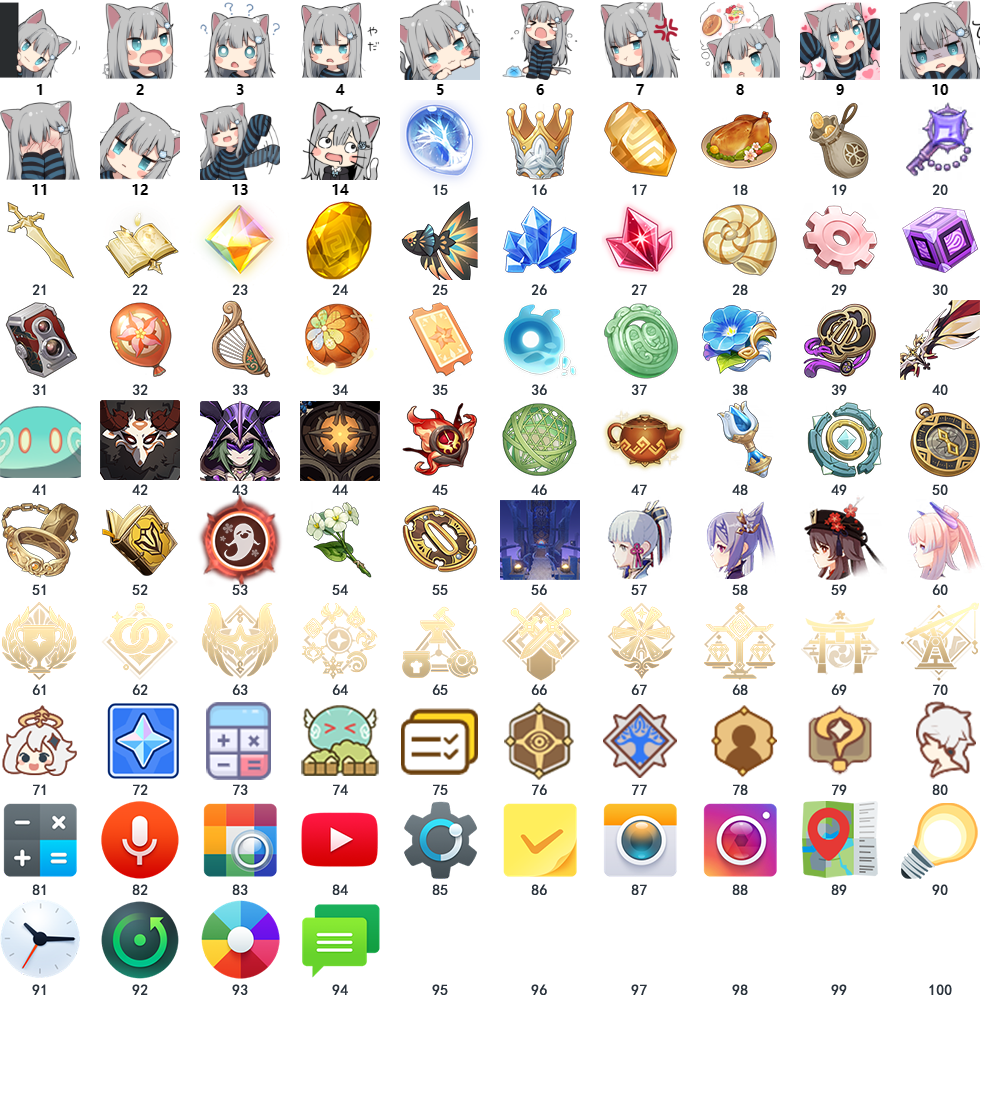
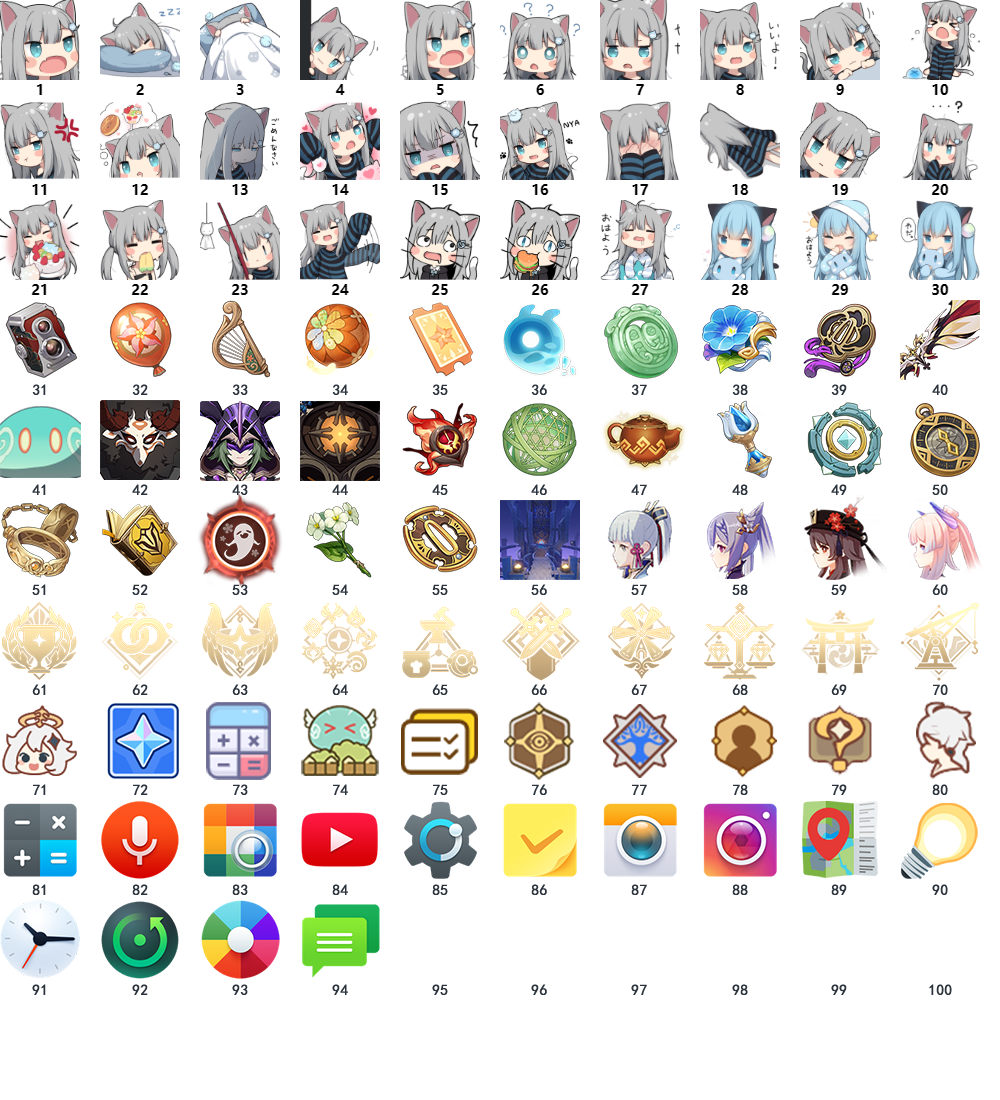
修复bug

Changed region(s): [[0.0, 0.0, 0.992, 0.2782]]

diff --git a/config/system/help_system.js b/config/system/help_system.js
@@ -67,7 +67,7 @@ export const helpList = [
       {
         "icon": 9,
         "title": "定时发图",
-        "desc": "#定时发图"
+        "desc": "#发图,可定时推送"
       },
       {
         "icon": 10,
@@ -82,7 +82,12 @@ export const helpList = [
       {
         "icon": 12,
         "title": "城市天气",
-        "desc": "#天气 + 城市"
+        "desc": "#天气 + 城市, 可定时推送"
+      },
+      {
+        "icon": 13,
+        "title": "今日番剧",
+        "desc": "#今日番剧，可定时推送"
       }
     ]
   },
@@ -90,14 +95,19 @@ export const helpList = [
     "group": "小修系列",
     "list": [
       {
-        "icon": 13,
+        "icon": 14,
         "title": "进退群通知",
         "desc": "进群诙谐欢迎"
       },
       {
-        "icon": 14,
+        "icon": 15,
         "title": "问候回复",
         "desc": "发送“早上好”试试吧"
+      },
+      {
+        "icon": 16,
+        "title": "自定义图片api",
+        "desc": "自定义指令"
       }
     ]
   }

diff --git a/apps/CustomApi.js b/apps/CustomApi.js
@@ -3,8 +3,6 @@ import {  getImageUrl, readAndParseYAML } from '../utils/getdate.js';
 // 假设apiList现在是一个对象
 const apiList = await readAndParseYAML('../config/api.yaml');
 
-console.log(apiList);  // 打印apiList以查看其内容
-
 // 将apiList转换为apiMap，键是指令，值是imageUrls
 const apiMap = {};
 for (let item of apiList.setapi) {

diff --git a/guoba.support.js b/guoba.support.js
@@ -37,7 +37,7 @@ export function supportGuoba() {
       description: "表情包仓库、定时系列和运势系列",
       icon: "mdi:stove",
       iconColor: "#d19f56",
-      iconPath: path.join(_path, "img/fox.jpg"),
+      iconPath: path.join(_path, "img/-zue37Q5-e39pZlT3cSiw-il.jpeg"),
     },
       // 配置项信息
     configInfo: {

diff --git a/README.md b/README.md
@@ -62,6 +62,8 @@ git clone --depth=1 https://github.com/logier/logier-plugins.git ./plugins/logie
 | 算一卦 | #算卦 #悔卦| 
 | 塔罗牌 | #塔罗牌 #占卜 |
 | 签到 | #签到 |
+| 番剧 | #今日新番 |
+| 自定义图片api | 自定义指令 |
 | 进退群通知 | 进退群触发 | 
 | 问候回复 |  打招呼触发 <br> 例如早安、晚安 |
 <br>
@@ -216,7 +218,7 @@ git clone --depth=1 https://github.com/logier/logier-plugins.git ./plugins/logie
 │   │   ├── capoo100.gif
 │   ├── greyscale-emoji
 │   │   ├── greyscale100.gif
-支持webp、jpeg、webp、webp、gif
+支持jpg、jpeg、png、webp、gif
 ```
 寻图逻辑是当前目录下没有图片就随机选择一个文件夹继续搜寻
 

diff --git a/CHANGELOG.md b/CHANGELOG.md
@@ -1,3 +1,8 @@
+# 0.4.2
+
+- 新增自定义指令图片api
+- 修改帮助背景
+
 # 0.4.1
 
 - 修复锅巴表单内群号不显示问题
